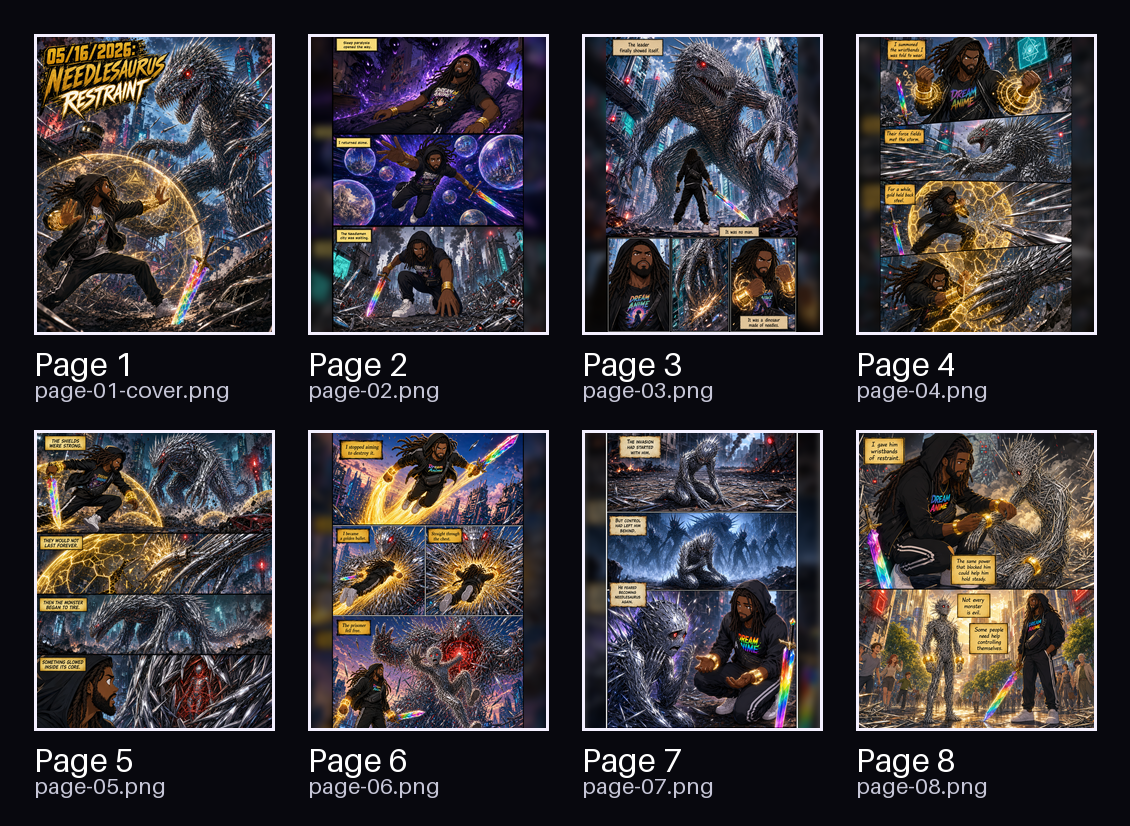
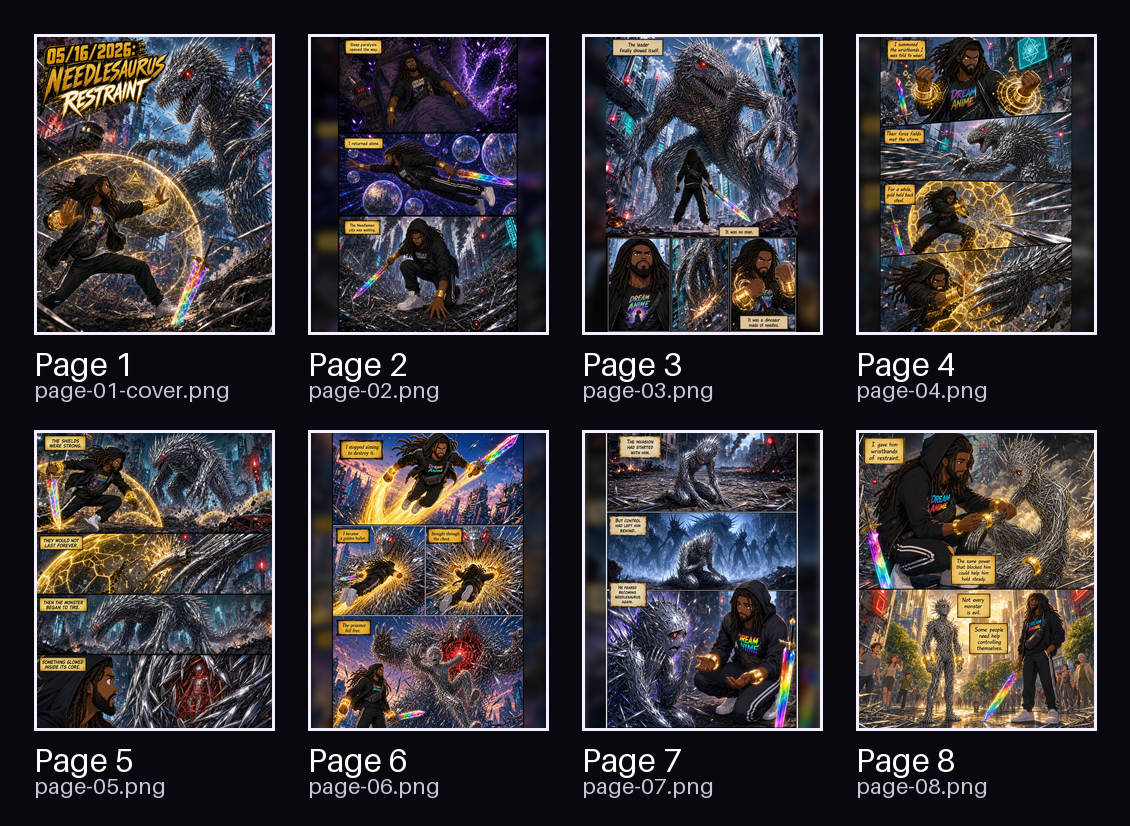
Regenerate Needlesaurus page 2

Changed region(s): [[0.2478, 0.0303, 0.4956, 0.4237]]

diff --git a/2026-05-16-needlesaurus-restraint/source/page-script.md b/2026-05-16-needlesaurus-restraint/source/page-script.md
@@ -17,7 +17,7 @@ Caption boxes:
 - "I returned alone."
 - "The Needlemen city was waiting."
 
-Visual beats: Top panel shows Jet's bedroom dissolving into dark sleep-paralysis shadows and faint purple Storyverse light. Middle panel shows Jet dropping through the cosmic Storyverse void past bubble universes. Bottom panel shows Jet landing alone in the shattered futuristic city where broken Needlemen fragments cover the street and smoke rises from towers.
+Visual beats: Top panel shows Jet lying stiff in bed as dark sleep-paralysis shadows and faint purple Storyverse light open a portal beside him. Middle panel shows Jet flying side-profile through the cosmic Storyverse void past bubble universes, with exactly two legs trailing behind him and exactly two white sneakers visible. Bottom panel shows Jet landing alone in the shattered futuristic city where broken Needlemen fragments cover the street and smoke rises from towers.
 
 ## Page 3
 